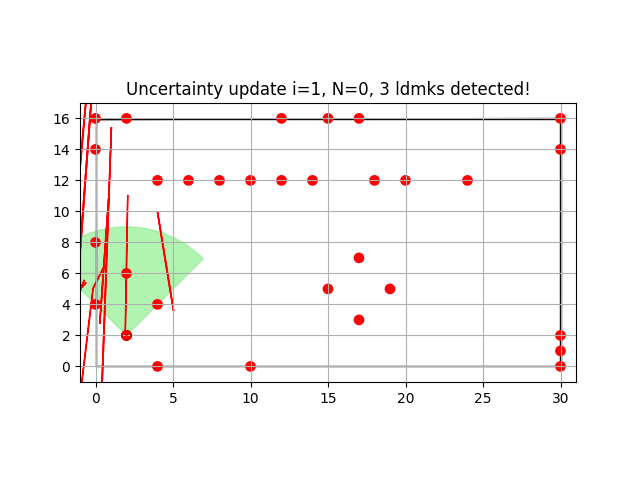
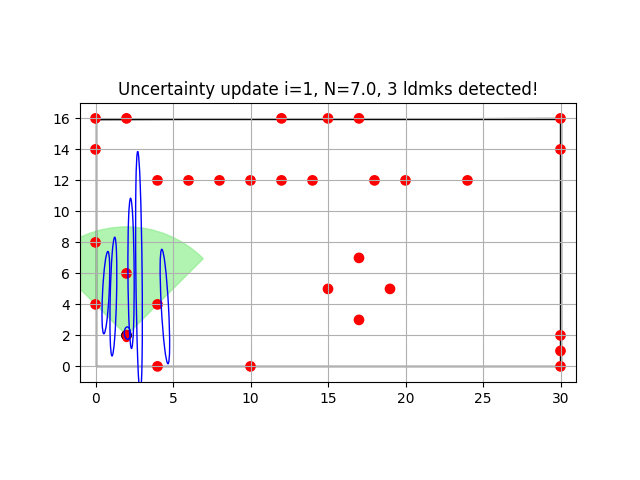
algo file cleaner, first version of hw6 file, some new functions on utils and plot utils (need to verify)

Changed region(s): [[0.125, 0.2188, 0.2812, 0.7812], [0.1875, 0.1562, 0.8438, 0.2188]]

diff --git a/FastSLAM_1.py b/FastSLAM_1.py
@@ -3,10 +3,10 @@ from operator import itemgetter
 import numpy as np
 from numpy import sin, cos, sqrt, arctan2, pi
 from motion_model import sample_model_velocity
-from utils import SLAMParticle, stochastic_universal_sampler, calc_map_jacobian
+from utils import SLAMParticle, stochastic_universal_sampler, calc_map_jacobian, relative_bearing, calc_pos_jacobian
 
 
-def FastSLAM_1(Y, u_t, z_t, p0, alphas_motion, camera_range,
+def FastSLAM_1(Y, u_t, z_t, p0, alphas_motion, camera_range, camera_fov,
                deltat=1, sigmas_percep=(.1, .1, .1)):
 
     ### verify
@@ -23,6 +23,7 @@ def FastSLAM_1(Y, u_t, z_t, p0, alphas_motion, camera_range,
         particle.x = sample_model_velocity(x_tp=particle.x, u_t=u_t, alphas=alphas_motion, deltat=deltat)
 
         for z_idx, z in enumerate(z_t.T):                       # iter over readings
+            s = z[2]
             z = z[:2][:, None]                                  # ignore s and make vertical again
 
             Qinv_cache = []
@@ -48,6 +49,15 @@ def FastSLAM_1(Y, u_t, z_t, p0, alphas_motion, camera_range,
                 # line 9
                 w_features[j] = (2 * pi * np.linalg.det(Qj))**-.5 * np.exp(-.5 * (z - zhat).T @ Qj_inv @ (z - zhat))
 
+                # print('zhat', zhat)
+                # print('z', z)
+                # print('pos', particle.pos())
+                # print('muj', muj.squeeze())
+                # print('s', s)
+                # print('w', w_features[j])
+                #
+                # print(f'fim da associação, p = {k}, j = {j}')
+
             # line 11
             w_features[particle.N] = p0
 
@@ -71,8 +81,7 @@ def FastSLAM_1(Y, u_t, z_t, p0, alphas_motion, camera_range,
                     # line 18
                     Hj = calc_map_jacobian(particle.pos(), mu.squeeze())
                     Hj_inv = np.linalg.inv(Hj)
-                    Sigma = Hj_inv.T @ Q_percep @ Hj_inv          ## from book
-                    # Sigma = Hj_inv @ Q_percep @ Hj_inv.T            ## from another code...
+                    Sigma = Hj_inv.T @ Q_percep @ Hj_inv
 
                     particle.insert_new_feature(mu, Sigma)
 
@@ -83,9 +92,9 @@ def FastSLAM_1(Y, u_t, z_t, p0, alphas_motion, camera_range,
                     Hj = calc_map_jacobian(particle.pos(), mu.squeeze())
 
                     # line 21
-                    Qj_inv = Qinv_cache[j]
-                    # Qj = Hj @ Sigma @ Hj.T + Q_percep
-                    # Qj_inv = np.linalg.inv(Qj)
+                    # Qj_inv = Qinv_cache[j]
+                    Qj = Hj @ Sigma @ Hj.T + Q_percep
+                    Qj_inv = np.linalg.inv(Qj)
 
                     K = Sigma @ Hj.T @ Qj_inv
 
@@ -103,8 +112,11 @@ def FastSLAM_1(Y, u_t, z_t, p0, alphas_motion, camera_range,
                     # check if into the perception range
                     # line 28
                     dist = np.linalg.norm(particle.mu_features[j] - particle.x[:2])
+                    rel_bearing = relative_bearing(observer_angle=particle.x[2],
+                                                   target_angle=arctan2(particle.mu_features[j][0] - particle.x[0],
+                                                                        particle.mu_features[j][1] - particle.x[1]))
 
-                    if dist < camera_range:
+                    if dist < camera_range and abs(rel_bearing) < camera_fov:
                         # line 31
                         particle.counter_features[j] -= 1
 
@@ -112,9 +124,9 @@ def FastSLAM_1(Y, u_t, z_t, p0, alphas_motion, camera_range,
                         if particle.counter_features[j] < 0:
                             delete_list.append(j)
 
-            delete_list.reverse()
-            for j in delete_list:
-                particle.delete_feature(j)
+            # delete_list.reverse()
+            # for j in delete_list:
+            #     particle.delete_feature(j)
 
     # particles likelihoods considering all readings
     w_particles = w_particles.prod(axis=0)

diff --git a/homework_6.py b/homework_6.py
@@ -49,10 +49,10 @@ ut_seq = np.array(
      [0] + 12 * [0] + [0] + [hr] + 23 * [0] + [hr] + 8 * [0] + 1 * [hr] + 19 * [0] + 10 * [0] + 1 * [hr] + 3 * [0] + 10 * [0]))
     # subida                # direita         # descida            # esquerda                       # subida
 
-n_particles = 100
-percep_sigmas = (0.3, 0.3, 0.1)
-motion_alphas = np.array((0.01, 0.001, 0.01, 0.001, 0.01, 0.001))
-p0 = 1e-1
+n_particles = 10
+percep_sigmas = (0.3, 0.2, 0.1)
+motion_alphas = np.array((5, 1, 0.01, 0.01, 0.01, 0.01))*1e-3
+p0 = 5e-1
 
 # good values for visualization:
 # percep_sigmas = (0.3, 0.01, 0.1)
@@ -80,13 +80,16 @@ if __name__ == "__main__":
 
             Y, w = FastSLAM_1(Y=Y, u_t=ut, z_t=fiti,
                               p0=p0, alphas_motion=motion_alphas, deltat=1,
-                              camera_range=camera_range, sigmas_percep=percep_sigmas[:2])
+                              camera_range=camera_range, camera_fov=camera_fov,
+                              sigmas_percep=percep_sigmas[:2])
 
             if len(citi) > 0:
                 ldmks_string = f'{len(citi)} ldmks detected!'
             else:
                 ldmks_string = 'No Ldmks detected...'
-            title = f"Uncertainty update i={i}, N={0}, {ldmks_string}"
+
+            N_mean = sum([p.N for p in Y])/len(Y)
+            title = f"Uncertainty update i={i}, N={N_mean}, {ldmks_string}"
         else: raise 'algo_name err'
 
         plot_FastSLAM_scene(xt=xti, Y=Y, w=w, area_map=test_area_map, camera_fov=camera_fov,

diff --git a/EKF_SLAM_known_correspondences.py b/EKF_SLAM_known_correspondences.py
@@ -87,8 +87,6 @@ def EKF_SLAM_known_correspondences(mu_tp, Sigma_tp, u_t, z_t, c_t,
             mubar_t[loc] = mubar_jx
             mubar_t[loc+1] = mubar_jy
             mubar_t[loc+2] = mubar_js
-            #
-            # seen_cits.append(cit)
         else:
             mubar_jx = mubar_t[loc].item()
             mubar_jy = mubar_t[loc + 1].item()
@@ -118,7 +116,6 @@ def EKF_SLAM_known_correspondences(mu_tp, Sigma_tp, u_t, z_t, c_t,
                              [    -deltay,      deltax, 0],
                              [          0,           0, q]]) / q
 
-        # to do: cut the zeros multiply
         Hit = np.hstack((Haux_pos, np.zeros((3, 3 * cit - 3)), Haux_map, np.zeros((3, 3 * (N - cit)))))
 
         # line 17

diff --git a/EKF_SLAM.py b/EKF_SLAM.py
@@ -57,7 +57,6 @@ def EKF_SLAM(mu_tp, Sigma_tp, u_t, z_t, Nt, alpha_ML,
     #                [0, 0,  0]])
 
     # G_t = np.eye(3 * N + 3) + F_x.T @ gt @ F_x
-
     G_t = np.eye(3*Nt + 3)
     G_t[0, 2] = -mov1
     G_t[1, 2] = mov0
